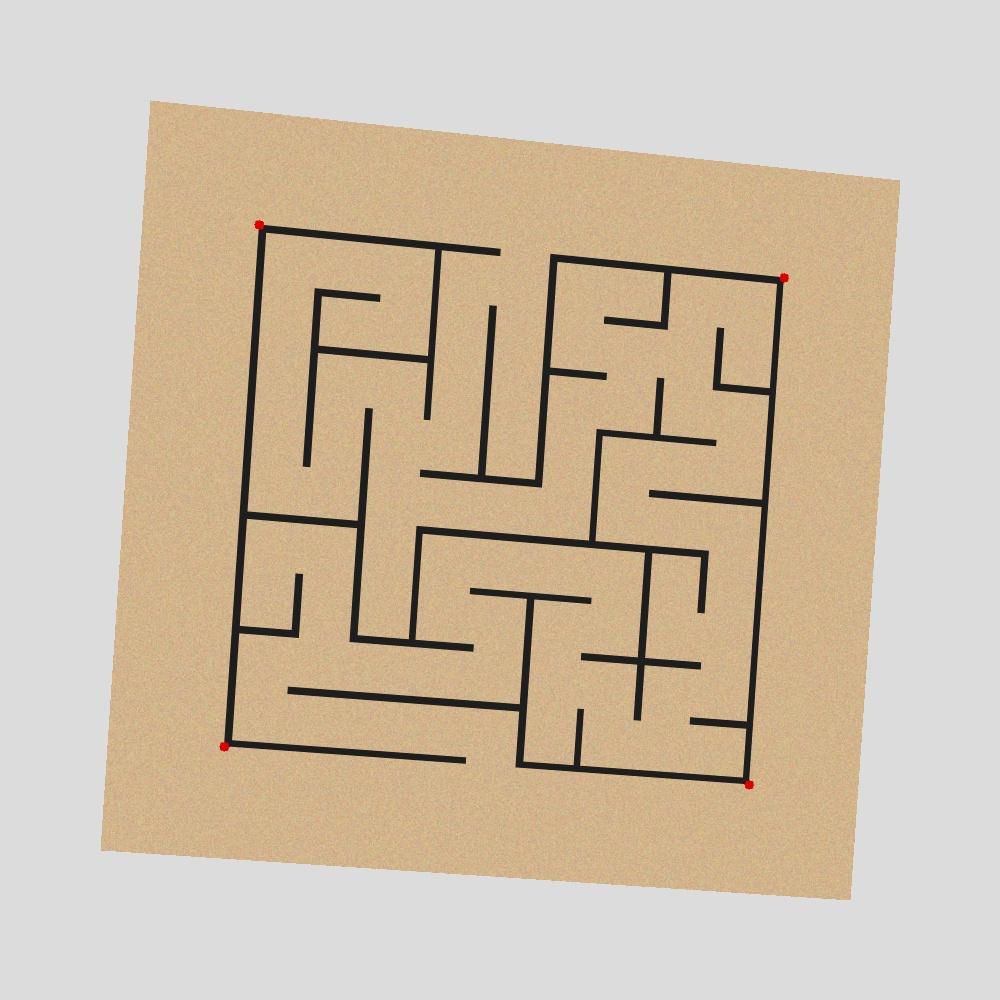
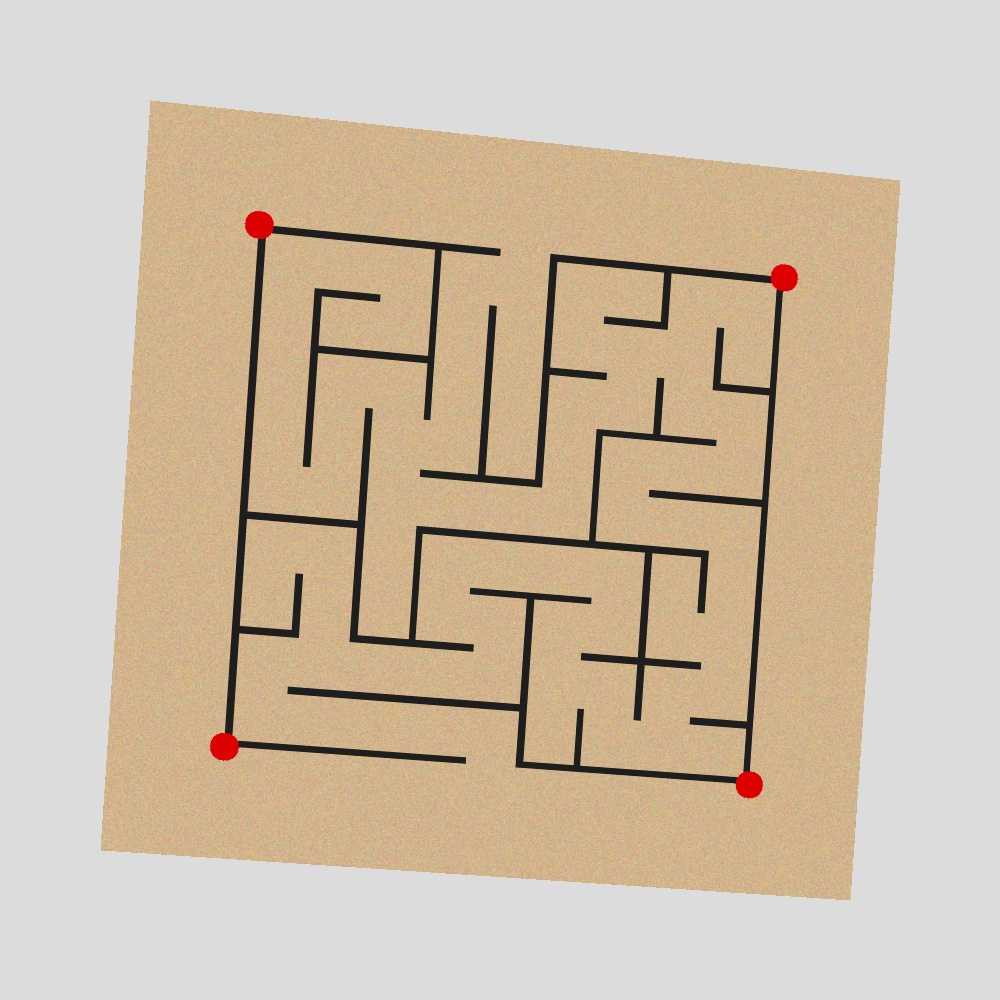
picamera rgb

diff --git a/sample/maze_extract/main.py b/sample/maze_extract/main.py
@@ -50,7 +50,8 @@ if __name__ == "__main__":
 
         try:
             while True:
-                frame = picam2.capture_array()
+                raw_frame = picam2.capture_array()
+                frame = cv2.cvtColor(raw_frame, cv2.COLOR_RGB2BGR)
                 cv2.imshow("Camera Preview", frame)
                 key = cv2.waitKey(1) & 0xFF
 

diff --git a/sample/maze_extract/generate_test_img.py b/sample/maze_extract/generate_test_img.py
@@ -31,7 +31,7 @@ def convert_to_mdf_maze(input_img_path="maze.png", output_path="test_maze.jpg"):
     # 【更新邏輯】：4 個紅色定位點正中心精準對齊頂點
     # ==========================================
     red_color = (0, 0, 220)
-    marker_radius = 5 # 半徑 25 小於單一網格的大小 (70)，因此紅點不會跨界干擾到通道
+    marker_radius = 15 # 半徑 25 小於單一網格的大小 (70)，因此紅點不會跨界干擾到通道
     
     # 直接畫在 (pad, pad) 也就是迷宮框線的正角落！
     cv2.circle(mdf, (pad, pad), marker_radius, red_color, -1)